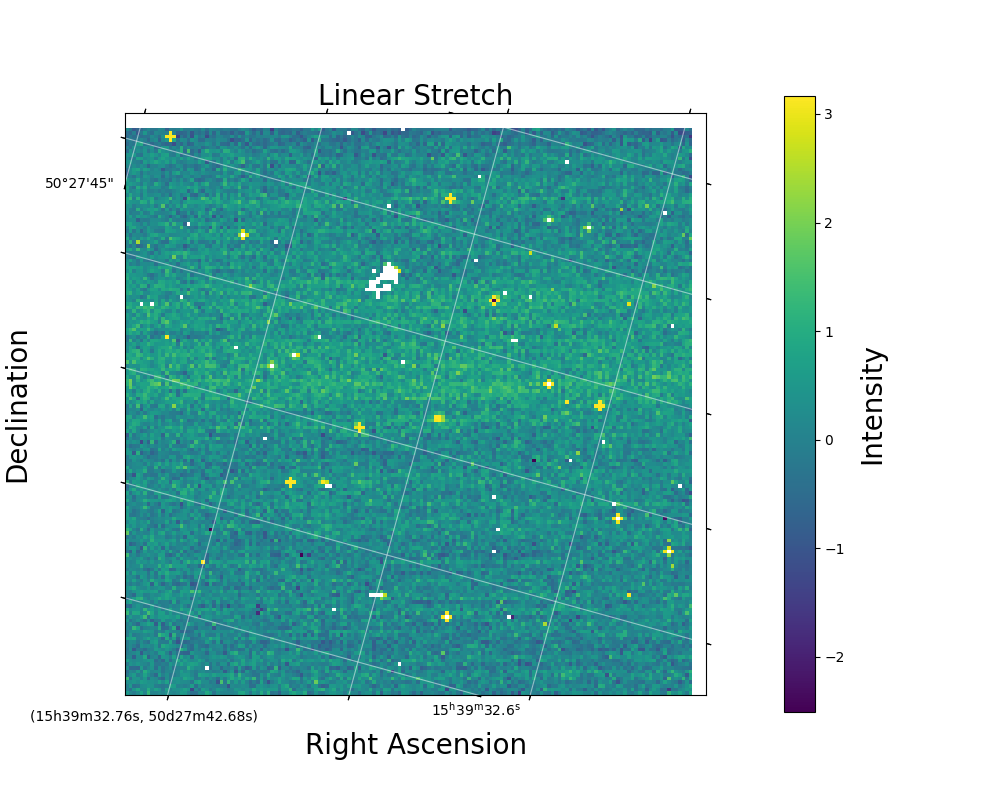
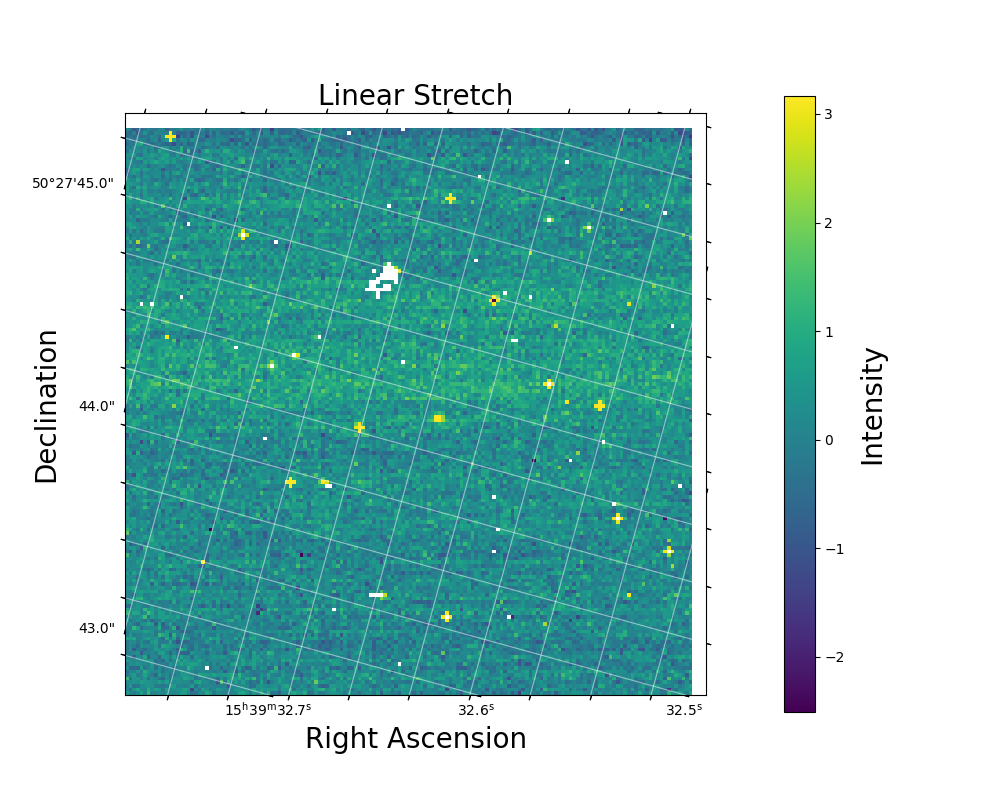
edit image func

diff --git a/convertImg.py b/convertImg.py
@@ -41,38 +41,44 @@ def convertToPNG(theSlice, filepath):
         else:
             norm = ImageNormalize(image_data[s, :, :], interval=ZScaleInterval())
 
-        # Create axes with WCS projection
-        fig = plt.figure()
-        ax = fig.add_subplot(111, projection=wcs)
-        plt.imshow(image_data[s, :, :], origin='lower', cmap=plt.cm.gray, norm=norm)
-        ax.coords.grid(color='white', alpha=0.5, linestyle='solid')
-        plt.show()
+        # # Create axes with WCS projection
+        # fig = plt.figure()
+        # ax = fig.add_subplot(111, projection=wcs)
+        # plt.imshow(image_data[s, :, :], origin='lower', cmap=plt.cm.gray, norm=norm)
+        # ax.coords.grid(color='white', alpha=0.5, linestyle='solid')
+        # plt.show()
 
         fig, ax = plt.subplots(figsize=(10, 8),subplot_kw={'projection': wcs, 'slices': ('x', 'y')})
+        # ax = plt.subplot(projection=wcs, label='overlays')
         img = ax.imshow(image_data[s, :, :], cmap='viridis', norm=norm)
 
         ax.coords.grid(color='white', alpha=0.5, linestyle='solid')
-        
+        # Enable tick labels along grid lines
         # Set axis labels
         ra = ax.coords[0]
         dec = ax.coords[1]
-        ra.set_axislabel('Right Ascension', fontsize=20)
-        dec.set_axislabel('Declination', fontsize=20)
+        ra.set_axislabel('Right Ascension', fontsize=20, minpad=0.8)
+        dec.set_axislabel('Declination', fontsize=20, minpad=-0.5)
+        ra.set_major_formatter('hh:mm:ss.s')
+        dec.set_major_formatter('dd:mm:ss.s')
+        ra.set_ticks(number=100)
+        dec.set_ticks(number=10)
+
         # ==================================================
-       # Add annotation near the origin to indicate direction
-        origin_x, origin_y = wcs.wcs_pix2world(0, 0, 0)  # Convert pixel (0, 0) to world coordinates
+    #    # Add annotation near the origin to indicate direction
+    #     origin_x, origin_y = wcs.wcs_pix2world(0, 0, 0)  # Convert pixel (0, 0) to world coordinates
 
-        # Convert the coordinates to the desired string format
-        coord = SkyCoord(ra=origin_x * u.deg, dec=origin_y * u.deg, frame='icrs')
-        formatted_x = coord.ra.to_string(unit=u.hour, precision=2)  # Format RA
-        formatted_y = coord.dec.to_string(unit=u.deg, precision=2)   # Format Dec
+    #     # Convert the coordinates to the desired string format
+    #     coord = SkyCoord(ra=origin_x * u.deg, dec=origin_y * u.deg, frame='icrs')
+    #     formatted_x = coord.ra.to_string(unit=u.hour, precision=2)  # Format RA
+    #     formatted_y = coord.dec.to_string(unit=u.deg, precision=2)   # Format Dec
 
-        ax.annotate(f'({formatted_x}, {formatted_y})',
-                    xy=(0, 0),
-                    xytext=(-70, -20),
-                    textcoords='offset points',
-                    color='black',
-                    fontsize=10,)
+    #     ax.annotate(f'({formatted_x}, {formatted_y})',
+    #                 xy=(0, 0),
+    #                 xytext=(-70, -20),
+    #                 textcoords='offset points',
+    #                 color='black',
+    #                 fontsize=10,)
 
 
         # ==================================================
